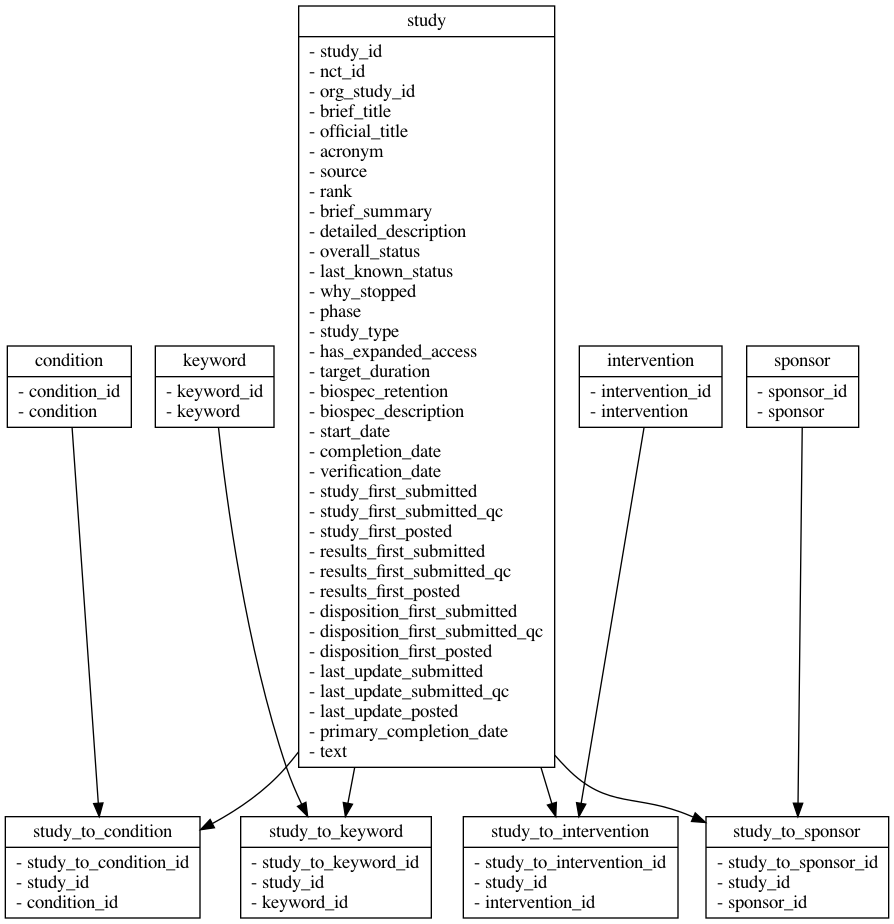
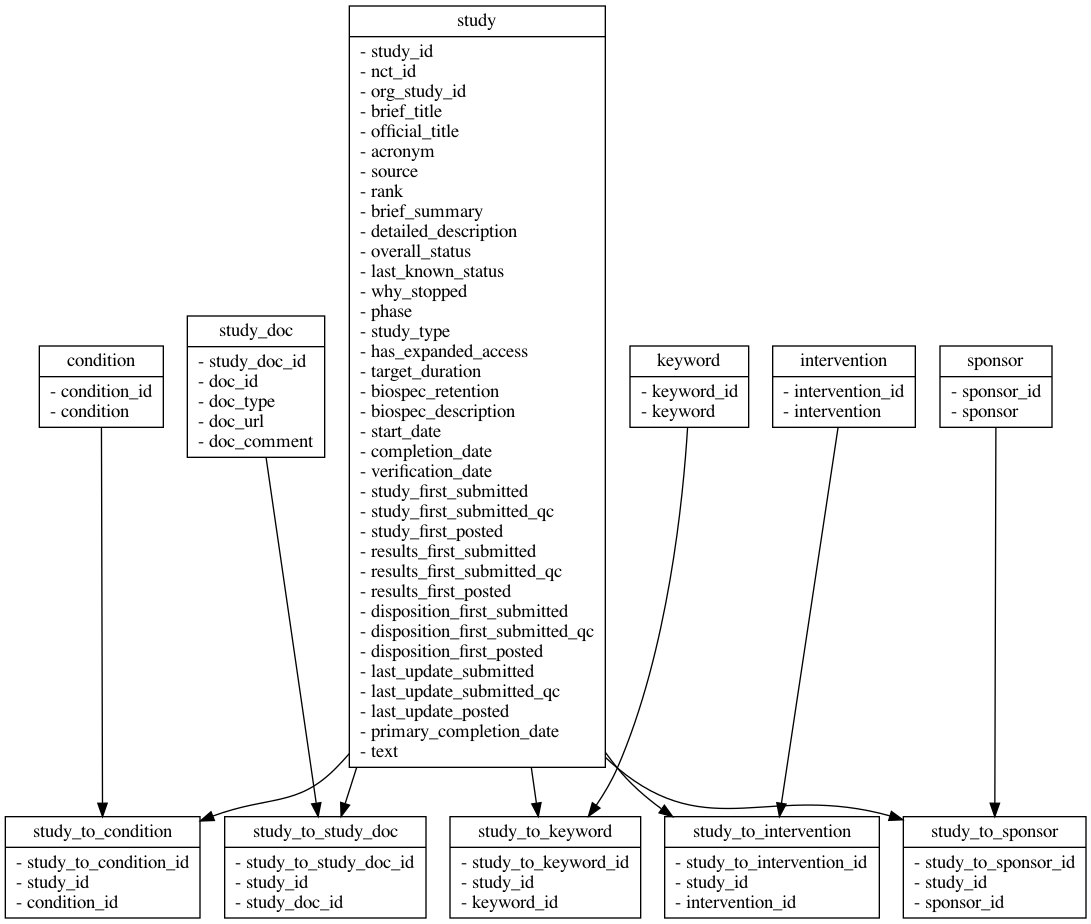
moving keywords into study table, adding outcomes and study_docs

diff --git a/scripts/load_pg.py b/scripts/load_pg.py
@@ -15,7 +15,7 @@ from pathlib import Path
 from rich.progress import track
 from pprint import pprint
 from ct import Study, Condition, StudyToCondition, StudyToSponsor, Sponsor, \
-    Keyword, StudyToKeyword, Intervention, StudyToIntervention
+    Intervention, StudyToIntervention, StudyDoc, StudyToStudyDoc, StudyOutcome
 from typing import List, NamedTuple, TextIO
 
 
@@ -68,47 +68,54 @@ def main() -> None:
 
     for file in track(args.files, description="Processing..."):
         data = json.loads(open(file).read())
-        study, _ = Study.get_or_create(
-            acronym=data['acronym'],
-            biospec_description=data['biospec_description'],
-            biospec_retention=data['biospec_retention'],
-            brief_summary=data['brief_summary'],
-            brief_title=data['brief_title'],
-            detailed_description=data['detailed_description'],
-            has_expanded_access=data['has_expanded_access'],
-            last_known_status=data['last_known_status'],
-            nct_id=data['nct_id'],
-            official_title=data['official_title'],
-            org_study_id=data['org_study_id'],
-            overall_status=data['overall_status'],
-            phase=data['phase'],
-            rank=data['rank'],
-            source=data['source'],
-            study_type=data['study_type'],
-            target_duration=data['target_duration'],
-            why_stopped=data['why_stopped'],
-            text=data['text'],
-            # dates
-            start_date=to_date(data['start_date']),
-            completion_date=to_date(data['completion_date']),
-            disposition_first_posted=to_date(data['disposition_first_posted']),
-            disposition_first_submitted=to_date(
-                data['disposition_first_submitted']),
-            disposition_first_submitted_qc=to_date(
-                data['disposition_first_submitted_qc']),
-            last_update_posted=to_date(data['last_update_posted']),
-            last_update_submitted=to_date(data['last_update_submitted']),
-            last_update_submitted_qc=to_date(data['last_update_submitted_qc']),
-            primary_completion_date=to_date(data['primary_completion_date']),
-            results_first_posted=to_date(data['results_first_posted']),
-            results_first_submitted=to_date(data['results_first_submitted']),
-            results_first_submitted_qc=to_date(
-                data['results_first_submitted_qc']),
-            study_first_posted=to_date(data['study_first_posted']),
-            study_first_submitted=to_date(data['study_first_submitted']),
-            study_first_submitted_qc=to_date(data['study_first_submitted_qc']),
-            verification_date=to_date(data['verification_date']),
-        )
+        study, _ = Study.get_or_create(nct_id=data['nct_id'])
+
+        study.acronym = data['acronym']
+        study.biospec_description = data['biospec_description']
+        study.biospec_retention = data['biospec_retention']
+        study.brief_summary = data['brief_summary']
+        study.brief_title = data['brief_title']
+        study.detailed_description = data['detailed_description']
+        study.has_expanded_access = data['has_expanded_access']
+        study.last_known_status = data['last_known_status']
+        study.official_title = data['official_title']
+        study.org_study_id = data['org_study_id']
+        study.overall_status = data['overall_status']
+        study.phase = data['phase']
+        study.rank = data['rank']
+        study.source = data['source']
+        study.study_type = data['study_type']
+        study.target_duration = data['target_duration']
+        study.why_stopped = data['why_stopped']
+        study.text = data['text']
+
+        # dates
+        study.start_date = to_date(data['start_date'])
+        study.completion_date = to_date(data['completion_date'])
+        study.disposition_first_posted = to_date(
+            data['disposition_first_posted'])
+        study.disposition_first_submitted = to_date(
+            data['disposition_first_submitted'])
+        study.disposition_first_submitted_qc = to_date(
+            data['disposition_first_submitted_qc'])
+        study.last_update_posted = to_date(data['last_update_posted'])
+        study.last_update_submitted = to_date(data['last_update_submitted'])
+        study.last_update_submitted_qc = to_date(
+            data['last_update_submitted_qc'])
+        study.primary_completion_date = to_date(
+            data['primary_completion_date'])
+        study.results_first_posted = to_date(data['results_first_posted'])
+        study.results_first_submitted = to_date(
+            data['results_first_submitted'])
+        study.results_first_submitted_qc = to_date(
+            data['results_first_submitted_qc'])
+        study.study_first_posted = to_date(data['study_first_posted'])
+        study.study_first_submitted = to_date(data['study_first_submitted'])
+        study.study_first_submitted_qc = to_date(
+            data['study_first_submitted_qc'])
+        study.verification_date = to_date(data['verification_date'])
+        study.keywords = ', '.join(data['keywords'])
+        study.save()
 
         for condition in data.get('conditions'):
             cond, _ = Condition.get_or_create(condition=condition)
@@ -120,15 +127,26 @@ def main() -> None:
             s2s, _ = StudyToSponsor.get_or_create(study_id=study.study_id,
                                                   sponsor_id=spon.sponsor_id)
 
-        for keyword in data.get('keywords'):
-            kw, _ = Keyword.get_or_create(keyword=keyword)
-            s2k, _ = StudyToKeyword.get_or_create(study_id=study.study_id,
-                                                  keyword_id=kw.keyword_id)
-
         for doc in data.get('study_docs'):
-            kw, _ = StudyDoc.get_or_create(keyword=keyword)
-            s2k, _ = StudyDocToKeyword.get_or_create(study_id=study.study_id,
-                                                  keyword_id=kw.keyword_id)
+            study_doc, _ = StudyDoc.get_or_create(doc_id=doc['doc_id'])
+            study_doc.doc_type = doc['doc_type']
+            study_doc.doc_url = doc['doc_url']
+            study_doc.doc_comment = doc['doc_comment']
+            study_doc.save()
+            s2doc, _ = StudyToStudyDoc.get_or_create(
+                study_id=study.study_id, study_doc_id=study_doc.study_doc_id)
+
+        outcome_types = [
+            'primary_outcomes', 'secondary_outcomes', 'other_outcomes'
+        ]
+        for outcome_type in outcome_types:
+            for outcome in data.get(outcome_type, []):
+                study_outcome, _ = StudyOutcome.get_or_create(
+                    study_id=study.study_id,
+                    outcome_type=outcome_type.replace('_outcomes', ''),
+                    measure=outcome['measure'],
+                    time_frame=outcome['time_frame'],
+                    description=outcome['description'])
 
         if interventions := data.get('interventions'):
             for intervention in interventions:

diff --git a/scripts/ct.py b/scripts/ct.py
@@ -23,13 +23,6 @@ class Intervention(BaseModel):
     class Meta:
         table_name = 'intervention'
 
-class Keyword(BaseModel):
-    keyword = CharField(null=True)
-    keyword_id = AutoField()
-
-    class Meta:
-        table_name = 'keyword'
-
 class Sponsor(BaseModel):
     sponsor = CharField(null=True)
     sponsor_id = AutoField()
@@ -83,11 +76,25 @@ class Study(BaseModel):
         )
 
 class StudyDoc(BaseModel):
-    study_doc = CharField(null=True)
+    doc_comment = CharField(null=True)
+    doc_id = CharField(null=True)
+    doc_type = CharField(null=True)
+    doc_url = CharField(null=True)
     study_doc_id = AutoField()
 
     class Meta:
         table_name = 'study_doc'
+
+class StudyOutcome(BaseModel):
+    description = TextField(null=True)
+    measure = TextField(null=True)
+    outcome_type = CharField(null=True)
+    study = ForeignKeyField(column_name='study_id', field='study_id', model=Study)
+    study_outcome_id = AutoField()
+    time_frame = TextField(null=True)
+
+    class Meta:
+        table_name = 'study_outcome'
 
 class StudyToCondition(BaseModel):
     condition = ForeignKeyField(column_name='condition_id', field='condition_id', model=Condition)
@@ -104,14 +111,6 @@ class StudyToIntervention(BaseModel):
 
     class Meta:
         table_name = 'study_to_intervention'
-
-class StudyToKeyword(BaseModel):
-    keyword = ForeignKeyField(column_name='keyword_id', field='keyword_id', model=Keyword)
-    study = ForeignKeyField(column_name='study_id', field='study_id', model=Study)
-    study_to_keyword_id = AutoField()
-
-    class Meta:
-        table_name = 'study_to_keyword'
 
 class StudyToSponsor(BaseModel):
     sponsor = ForeignKeyField(column_name='sponsor_id', field='sponsor_id', model=Sponsor)

diff --git a/web/fastapi/main.py b/web/fastapi/main.py
@@ -96,6 +96,7 @@ class StudyDetail(BaseModel):
     target_duration: str
     biospec_retention: str
     biospec_description: str
+    keywords: str
     start_date: str
     completion_date: str
     verification_date: str
@@ -290,28 +291,6 @@ def make_bool(s: str):
 
 
 # --------------------------------------------------
-@app.get('/quick_search/{term}', response_model=List[StudySearchResult])
-def quick_search(term: str):
-    """ Search text for keyword """
-    def f(rec):
-        return StudySearchResult(nct_id=rec['nct_id'],
-                                 title=rec['brief_title'])
-
-    cur = get_cur()
-    sql = f"""
-        select nct_id, brief_title as title
-        from   study
-        where  text @@ to_tsquery('{term}');
-    """
-    cur.execute(sql)
-    res = cur.fetchall()
-    studies = list(map(lambda r: StudySearchResult(**dict(r)), res))
-    cur.close()
-
-    return studies
-
-
-# --------------------------------------------------
 @app.get('/summary', response_model=Summary)
 def summary():
     """ DB summary stats """
@@ -373,6 +352,7 @@ def study(nct_id: str) -> StudyDetail:
             target_duration=study.target_duration,
             biospec_retention=study.biospec_retention,
             biospec_description=study.biospec_description,
+            keywords=study.keywords,
             start_date=str(study.start_date) or '',
             completion_date=str(study.completion_date) or '',
             verification_date=str(study.verification_date) or '',
